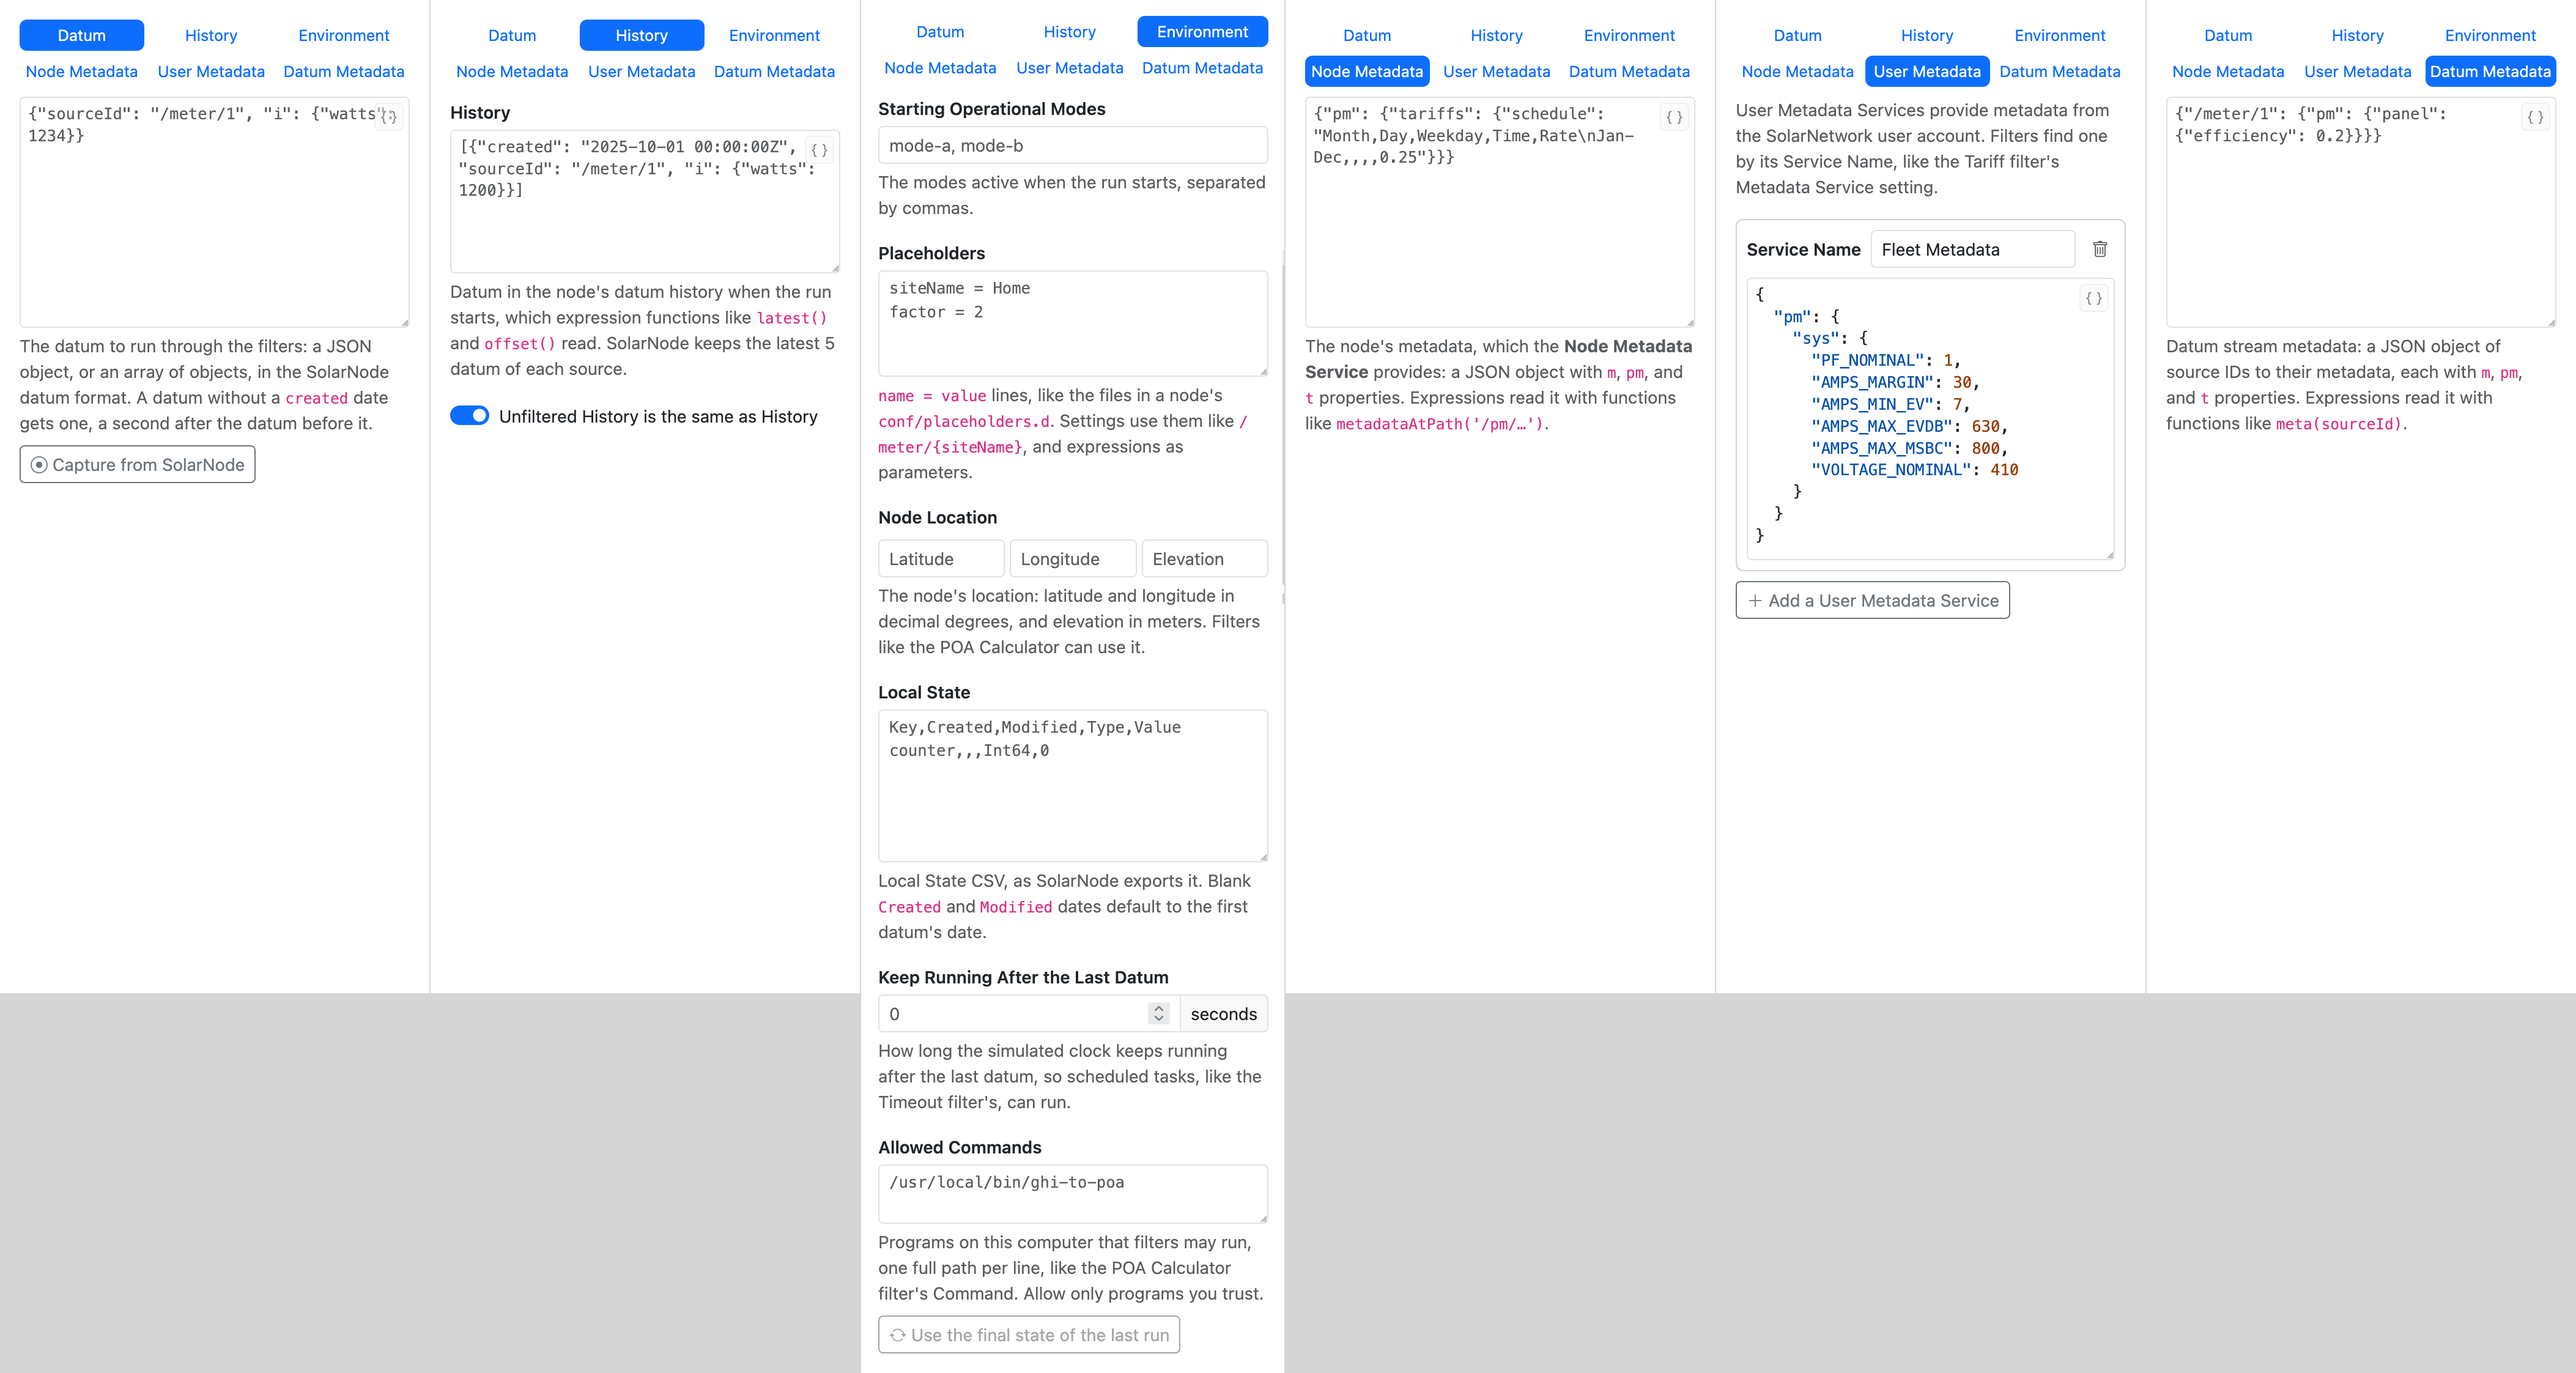
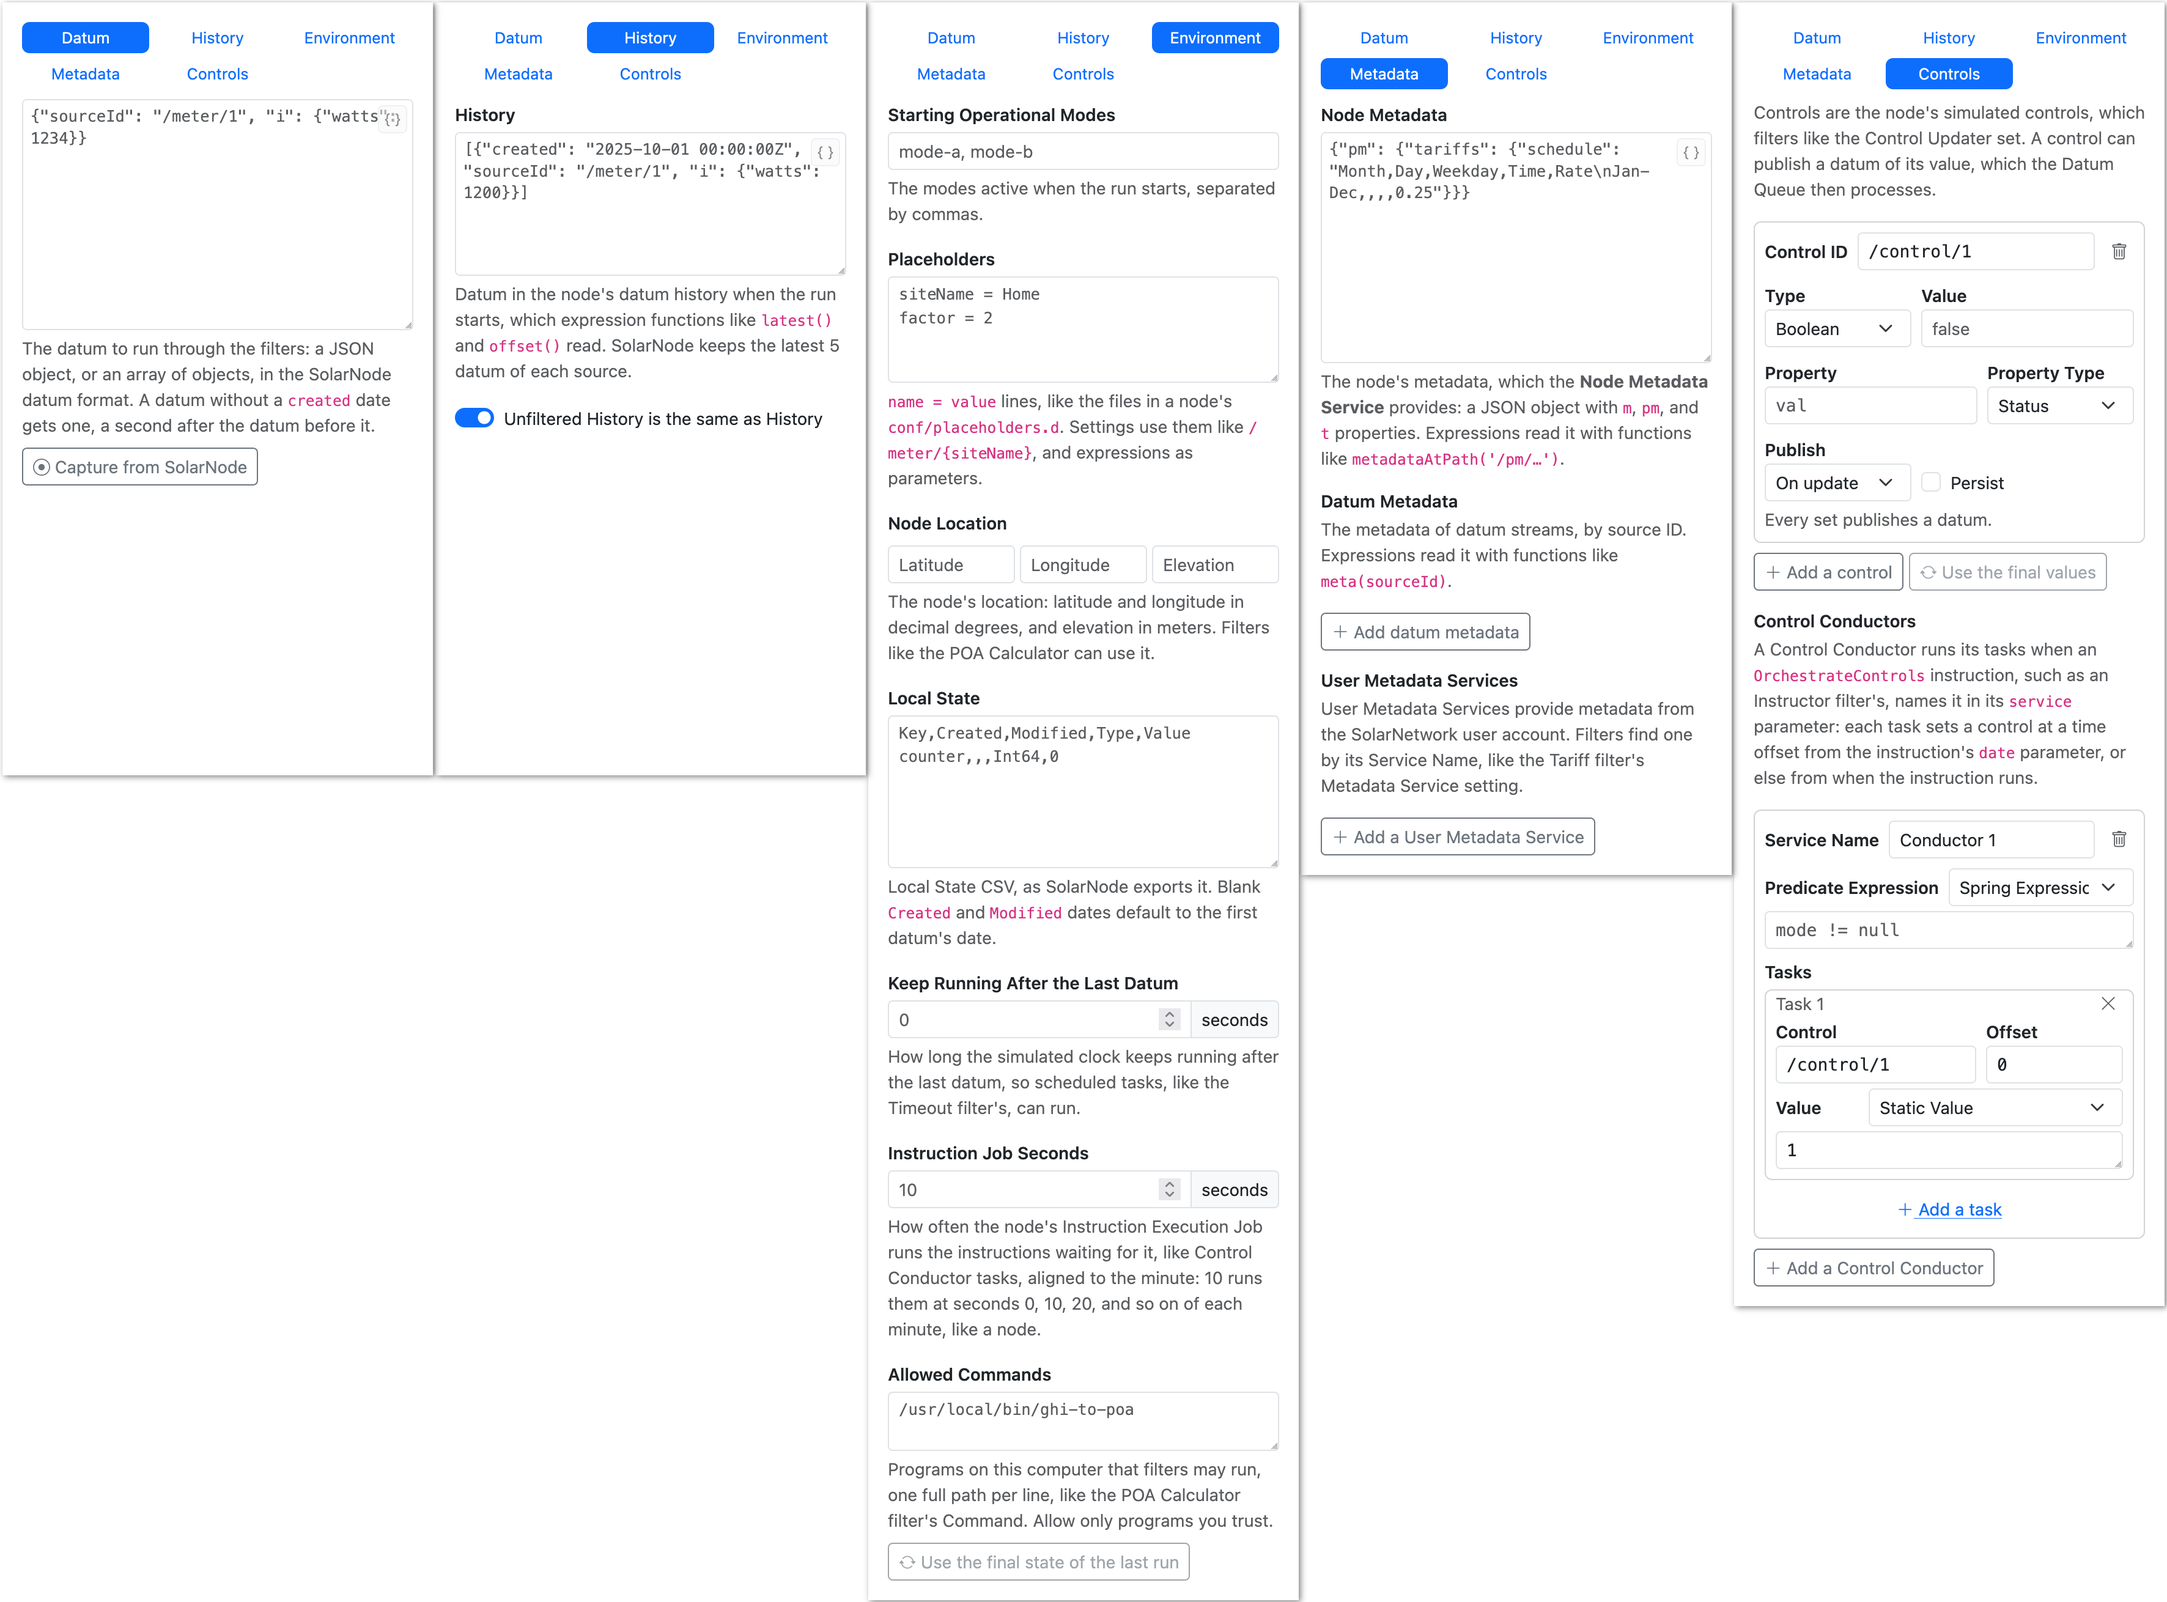
Update setup tabs image for 0.8.

diff --git a/docs/docs/getting-your-bearings.md b/docs/docs/getting-your-bearings.md
@@ -58,7 +58,7 @@ the entire simulation:
 ## Setup pane
 
 <figure markdown>
-![Setup pane tabs](./images/setup-tabs@2x.png){width=2106}
+![Setup pane tabs](./images/setup-tabs@2x.png){width=1772}
 <figcaption markdown>The various tab views within the Setup pane.</figcaption>
 </figure>
 
@@ -85,7 +85,7 @@ set. See [Controls and Instructions](./controls-and-instructions.md) for more de
 ![Action pane](./images/action-pane@2x.png){width=351}
 </figure>
 
-The Control pane is where you can:
+The Action pane is where you can:
 
 * import filter settings from a SolarNode
 * export the simulation's filter settings, so you can apply them to a SolarNode
